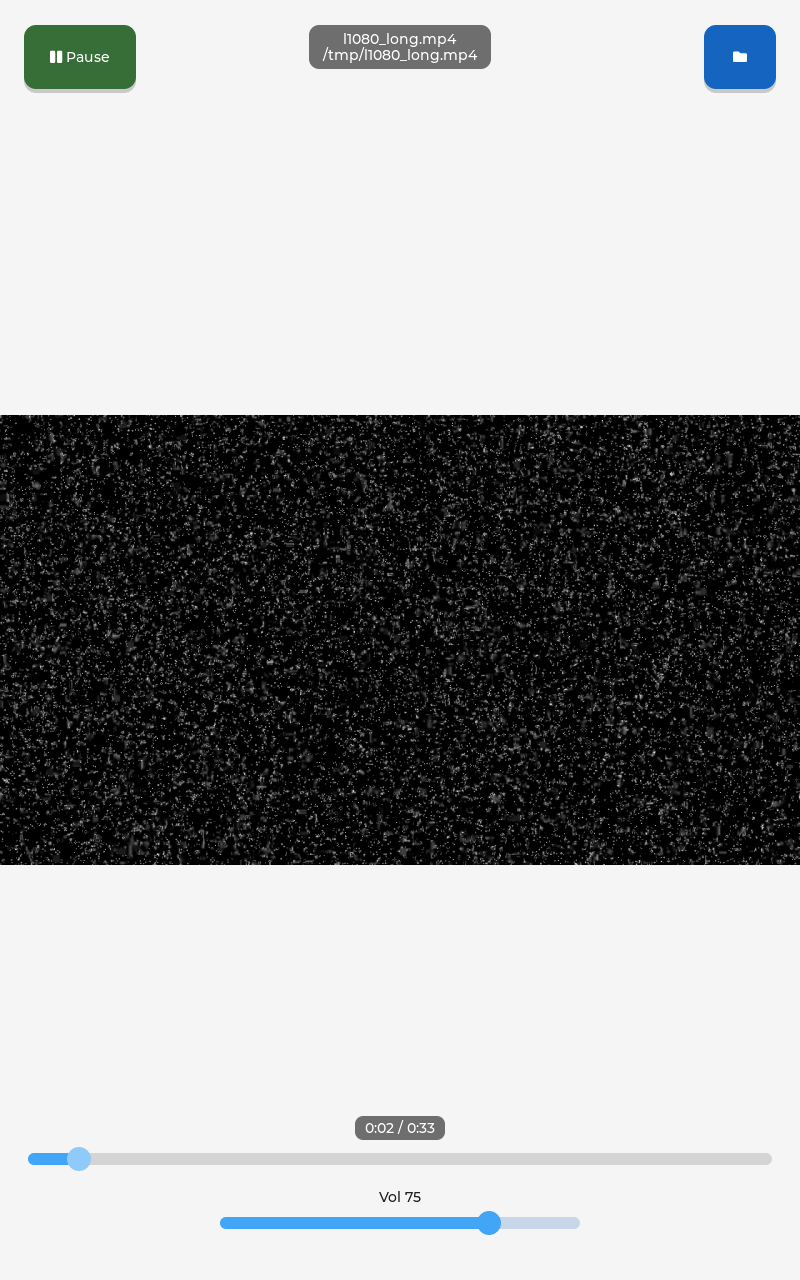
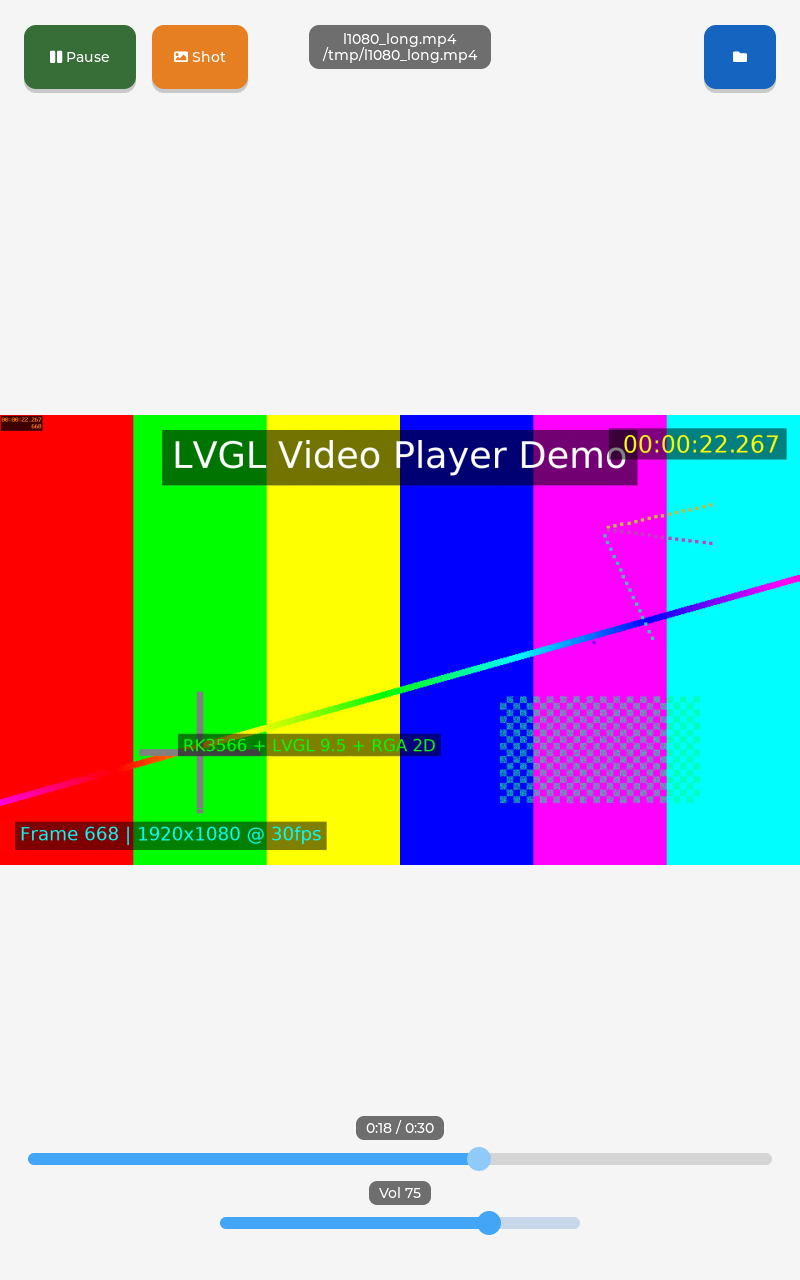
feat: Shot button + rich 1080p demo clip + new screenshots
1. UI: orange Shot button right of Pause. Click -> App::onSnapshot() which
   writes /tmp/shot_YYYYMMDD_HHMMSS_mmm_WxH.png via lv_snapshot_save_png.
   Filename scheme uses std::chrono::system_clock + strftime (C standard
   <ctime>) + millisecond counter to avoid collisions on rapid presses,
   and embeds the current logical resolution so portrait/landscape shots
   are distinguishable at a glance. Example:
   shot_20260817_183045_712_1280x800.png
2. Replaced the noisy /tmp/l1080_long.mp4 test clip (sent in previous
   sessions) with a rich 30 s 1920x1080 demo produced on VMware via
   ffmpeg lavfi testsrc2 + drawtext (title, real-time PTS, rolling text,
   frame counter) + 440 Hz sine. Replaces the device default clip.
3. docs/screenshots/{portrait,landscape,sdl_sim}.png replaced with
   captures from the new clip on RK3566 (portrait 0 deg, landscape 90 deg)
   and the SDL desktop simulator (1280x800, x86_64). All three show the
   orange Shot button next to Pause, plus the rich on-screen video.
4. README: Shot button + naming rule documented in features and the
   options table; preview caption updated for the new clip.

Verified on RK3566: make FFMPEG_PREFIX=/opt/ffmpeg-rkmp rebuild OK,
demo --shot saves 800x1280 with Shot button visible at top-left; -r 90
saves 1280x800 landscape. Verified on VMware x86_64: cmake ENABLE_SDL=ON
rebuild OK, xvfb-run demo opens 1280x800 SDL window with the new clip
and Shot button, --shot saves PNG.

diff --git a/src/App.cpp b/src/App.cpp
@@ -11,7 +11,9 @@
 #endif
 
 #include <chrono>
+#include <cstdio>
 #include <cstdlib>
+#include <ctime>
 #include <iostream>
 #include <sstream>
 #include <iomanip>
@@ -290,4 +292,31 @@ void App::snapshotTick()
         lv_snapshot_save_png(target, shotOncePath_.c_str());
         shotOncePath_.clear();
     }
+}
+
+void App::onSnapshot()
+{
+    /* Filename scheme: shot_YYYYMMDD_HHMMSS_mmm_WxH.png
+     *   - YYYYMMDD_HHMMSS = local-time wall clock (so files sort by time)
+     *   - mmm             = milliseconds, keeps rapid bursts unique
+     *   - WxH            = current logical (post-rotation) screen size, so
+     *                       the file tells you its orientation at a glance */
+    namespace ch = std::chrono;
+    const auto now   = ch::system_clock::now();
+    const auto tt    = ch::system_clock::to_time_t(now);
+    const auto epoch = now.time_since_epoch();
+    const int  ms    = (int)(ch::duration_cast<ch::milliseconds>(epoch).count() % 1000);
+
+    std::tm tm = *std::localtime(&tt);   /* C standard <ctime>; safe at our call rate */
+
+    char ts[32];
+    std::strftime(ts, sizeof(ts), "%Y%m%d_%H%M%S", &tm);
+
+    char path[96];
+    std::snprintf(path, sizeof(path), "/tmp/shot_%s_%03d_%dx%d.png",
+                  ts, ms, g_screen.w, g_screen.h);
+
+    lv_obj_t * target = screen_ ? screen_ : lv_screen_active();
+    lv_snapshot_save_png(target, path);
+    std::cerr << "[snapshot] button -> " << path << "\n";
 }

diff --git a/src/Ui.cpp b/src/Ui.cpp
@@ -27,6 +27,20 @@ void Ui::build(lv_obj_t * screen)
     lv_obj_center(playBtnLabel_);
     lv_obj_add_event_cb(playBtn_, playBtnCb, LV_EVENT_CLICKED, &app_);
 
+    /* top-left, right of Play: one-shot screenshot button. Orange so it stands
+     * out against the green Play / blue directory buttons. Saves to /tmp/ with
+     * a timestamp + resolution suffix so successive shots never collide and
+     * each file is self-describing (see App::onSnapshot). */
+    shotBtn_ = lv_button_create(screen);
+    lv_obj_set_size(shotBtn_, spct(W, 12), spct(H, 5));
+    lv_obj_align_to(shotBtn_, playBtn_, LV_ALIGN_OUT_RIGHT_MID, spct(W, 2), 0);
+    lv_obj_set_style_bg_color(shotBtn_, lv_color_make(0xE6, 0x7E, 0x22), 0);
+    lv_obj_set_style_radius(shotBtn_, 12, 0);
+    lv_obj_t * shot_lbl = lv_label_create(shotBtn_);
+    lv_label_set_text(shot_lbl, LV_SYMBOL_IMAGE " Shot");
+    lv_obj_center(shot_lbl);
+    lv_obj_add_event_cb(shotBtn_, shotBtnCb, LV_EVENT_CLICKED, &app_);
+
     /* top-right: open playlist / file browser */
     lv_obj_t * pl_btn = lv_button_create(screen);
     lv_obj_set_size(pl_btn, spct(W, 9), spct(H, 5));
@@ -171,6 +185,12 @@ void Ui::openBtnCb(lv_event_t * e)
 {
     App * a = (App *)lv_event_get_user_data(e);
     if (a) a->toggleBrowser();
+}
+
+void Ui::shotBtnCb(lv_event_t * e)
+{
+    App * a = (App *)lv_event_get_user_data(e);
+    if (a) a->onSnapshot();
 }
 
 void Ui::volSliderCb(lv_event_t * e)

diff --git a/src/App.h b/src/App.h
@@ -30,6 +30,11 @@ public:
     void playFile(const std::string & path);
     void toggleBrowser();
 
+    /* Save a PNG snapshot of the current screen under a timestamped name
+     * (shot_YYYYMMDD_HHMMSS_mmm_WxH.png). Bound to the "Shot" button in the
+     * top bar; the same path is used internally by --shot / --shot-dir. */
+    void onSnapshot();
+
     /* Screen capture (utils/lv_snapshot):
      *   startSnapshot(dir, sec)  - save <dir>/shot_000.png every `sec` seconds
      *   takeSnapshotOnce(path)   - save one shot after the UI settles (~2 s) */

diff --git a/src/Ui.h b/src/Ui.h
@@ -38,11 +38,13 @@ private:
     static void volSliderCb(lv_event_t * e);
     static void seekSliderCb(lv_event_t * e);
     static void openBtnCb(lv_event_t * e);
+    static void shotBtnCb(lv_event_t * e);
 
     App &     app_;
     lv_obj_t * screen_      = nullptr;
     lv_obj_t * playBtn_     = nullptr;
     lv_obj_t * playBtnLabel_= nullptr;
+    lv_obj_t * shotBtn_     = nullptr;
     lv_obj_t * seekSlider_  = nullptr;
     lv_obj_t * timeLabel_   = nullptr;
     lv_obj_t * titleLabel_  = nullptr;

diff --git a/README.md b/README.md
@@ -17,6 +17,8 @@
 - **分辨率自适应 + 启动旋转角**：任意面板分辨率 + `-r 0/90/180/270`，
   控件全部按屏宽高百分比布局
 - **运行时截屏工具**（`utils/lv_snapshot`）：导出 PNG 用于 README 预览 / 调试
+  - **快捷按钮**：Play 旁的橙色 "Shot" 按钮一键截图
+  - **专业命名**：`shot_YYYYMMDD_HHMMSS_mmm_WxH.png`（时间戳 ms 避免重名 + 分辨率后缀区分横竖屏）
 - **桌面 SDL 仿真**（`-DENABLE_SDL=ON`，默认 1280×800）：PC 上免真机预览
   UI，鼠标模拟触摸，非 Rockchip 平台自动关 RGA 走 CPU 软解
 - **aarch64 交叉编译**：`cmake/aarch64-linux-gnu.cmake` toolchain 文件
@@ -28,9 +30,9 @@
 | ![portrait](docs/screenshots/portrait.png) | ![landscape](docs/screenshots/landscape.png) | ![sdl-sim](docs/screenshots/sdl_sim.png) |
 | `./demo` | `./demo -r 90` | `cmake -DENABLE_SDL=ON` 在 PC 运行 |
 
-前两张由 `utils/lv_snapshot` 在 RK3566 真机上抓取（视频帧正在播放）；第三张
-来自 x86_64 桌面仿真（SDL 窗口 + 软件解码），三张都显示同一套 spct 百分比
-布局。
+三张截图都由 `utils/lv_snapshot` 在真机/桌面仿真运行中抓取（同样的 `spct()` 百分比
+布局在三端一致），彩色测试视频由 ffmpeg `testsrc2` + `drawtext` 生成（实时时间戳、
+滚动文字、标题、帧号 + 440Hz 音轨）。
 
 ## 视频输出链路
 
@@ -231,8 +233,16 @@ LVGL_ROTATE=180 ./build/lvgl-video-player          # 环境变量方式
 | `-r <deg>` / `--rotate <deg>` | 旋转角 0/90/180/270（默认 `DEFAULT_ROTATION`） |
 | `--shot <file>` | 启动 2s 后截一张屏到 PNG（README 预览图即由此生成） |
 | `--shot-dir <dir> [--shot-period <sec>]` | 周期性截屏到 `<dir>/shot_NNN.png`（默认每 5s） |
+| `Shot` 按钮（Play 旁） | 一键截图，落盘到 `/tmp/shot_YYYYMMDD_HHMMSS_mmm_WxH.png`（见下） |
 | `PLAYER_VIDEO=<path>` | 环境变量覆盖默认播放文件（SDL 仿真必备） |
 | `LVGL_ROTATE=<deg>` | 环境变量设置旋转角，等价于 `-r` |
+
+**`Shot` 按钮命名规则** `shot_<YYYYMMDD>_<HHMMSS>_<mmm>_<WxH>.png`：
+- `YYYYMMDD_HHMMSS`：本地墙钟时间，文件按时间自然排序
+- `mmm`：毫秒（0–999），保证连按不重名
+- `WxH`：当前逻辑分辨率（旋转后），一眼区分横/竖屏
+
+例：`shot_20260817_183045_712_1280x800.png`。
 
 截屏由 `utils/lv_snapshot` 提供：`lv_snapshot_take()` 抓取当前屏快照为
 RGB888 帧，再用手写 zlib 编码器生成真彩色 PNG（仅依赖 `libz`，不引入
